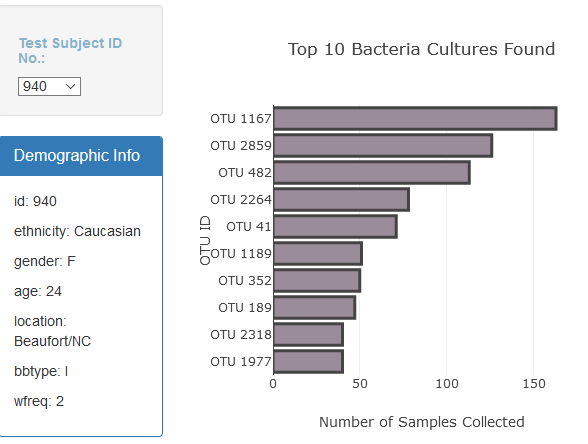
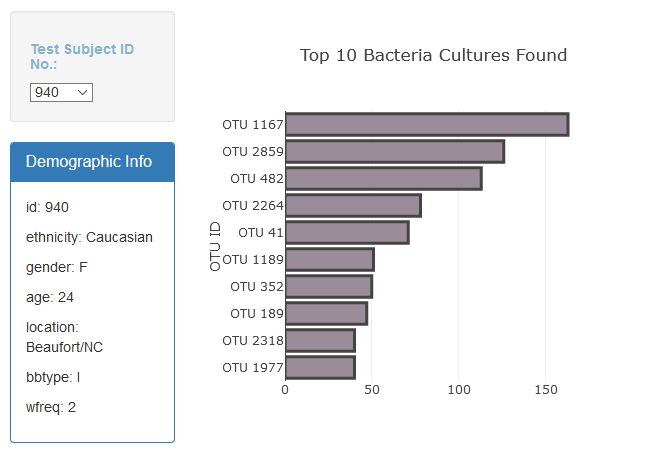
Add files via upload

diff --git a/static/js/app.js b/static/js/app.js
@@ -49,7 +49,6 @@ function optionChanged(selectedID){
        },
        layout = {
        title: 'Top 10 Bacteria Cultures Found',
-       xaxis: {title: 'Number of Samples Collected'},
        yaxis: {title: 'OTU ID'}
        };
  

diff --git a/static/css/style.css b/static/css/style.css
@@ -1,0 +1,9 @@
+body {
+    color: #f7f7f7;
+  }
+  
+  .jumbotron {
+    background-image: url("../images/bacteria.jpg");
+    background-size: 100% 100%;
+    text-align: center;
+  }
